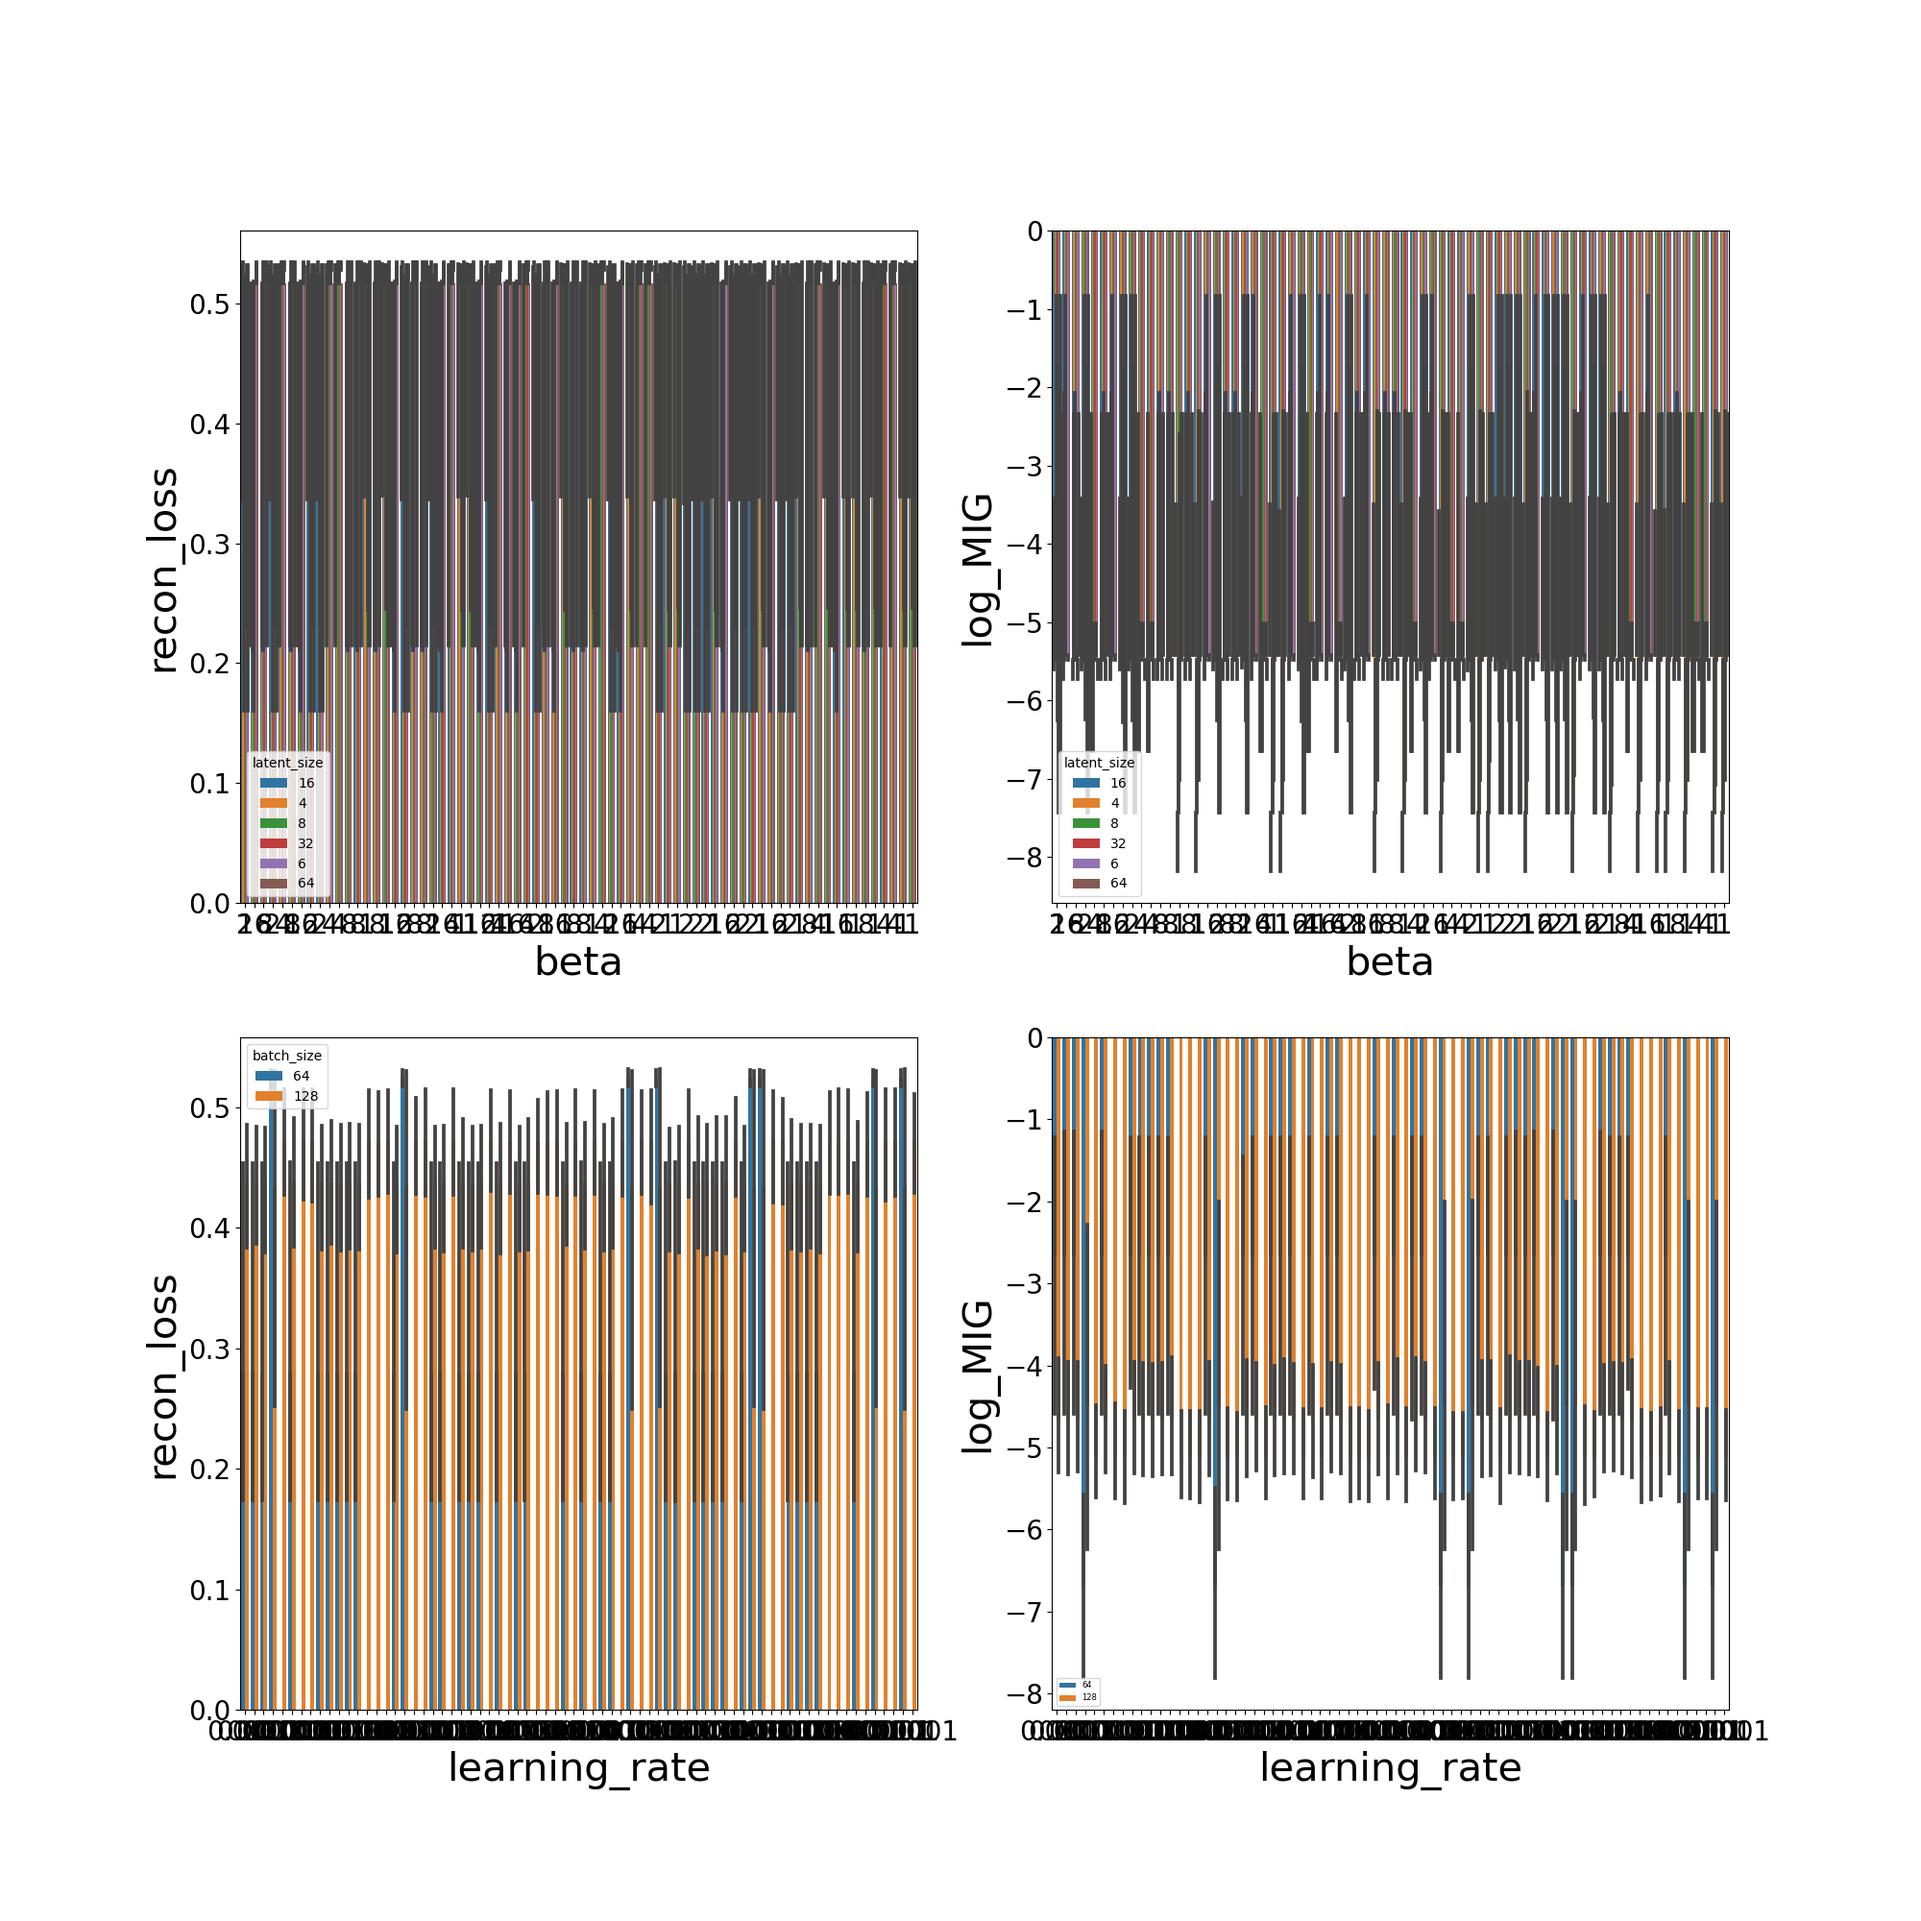
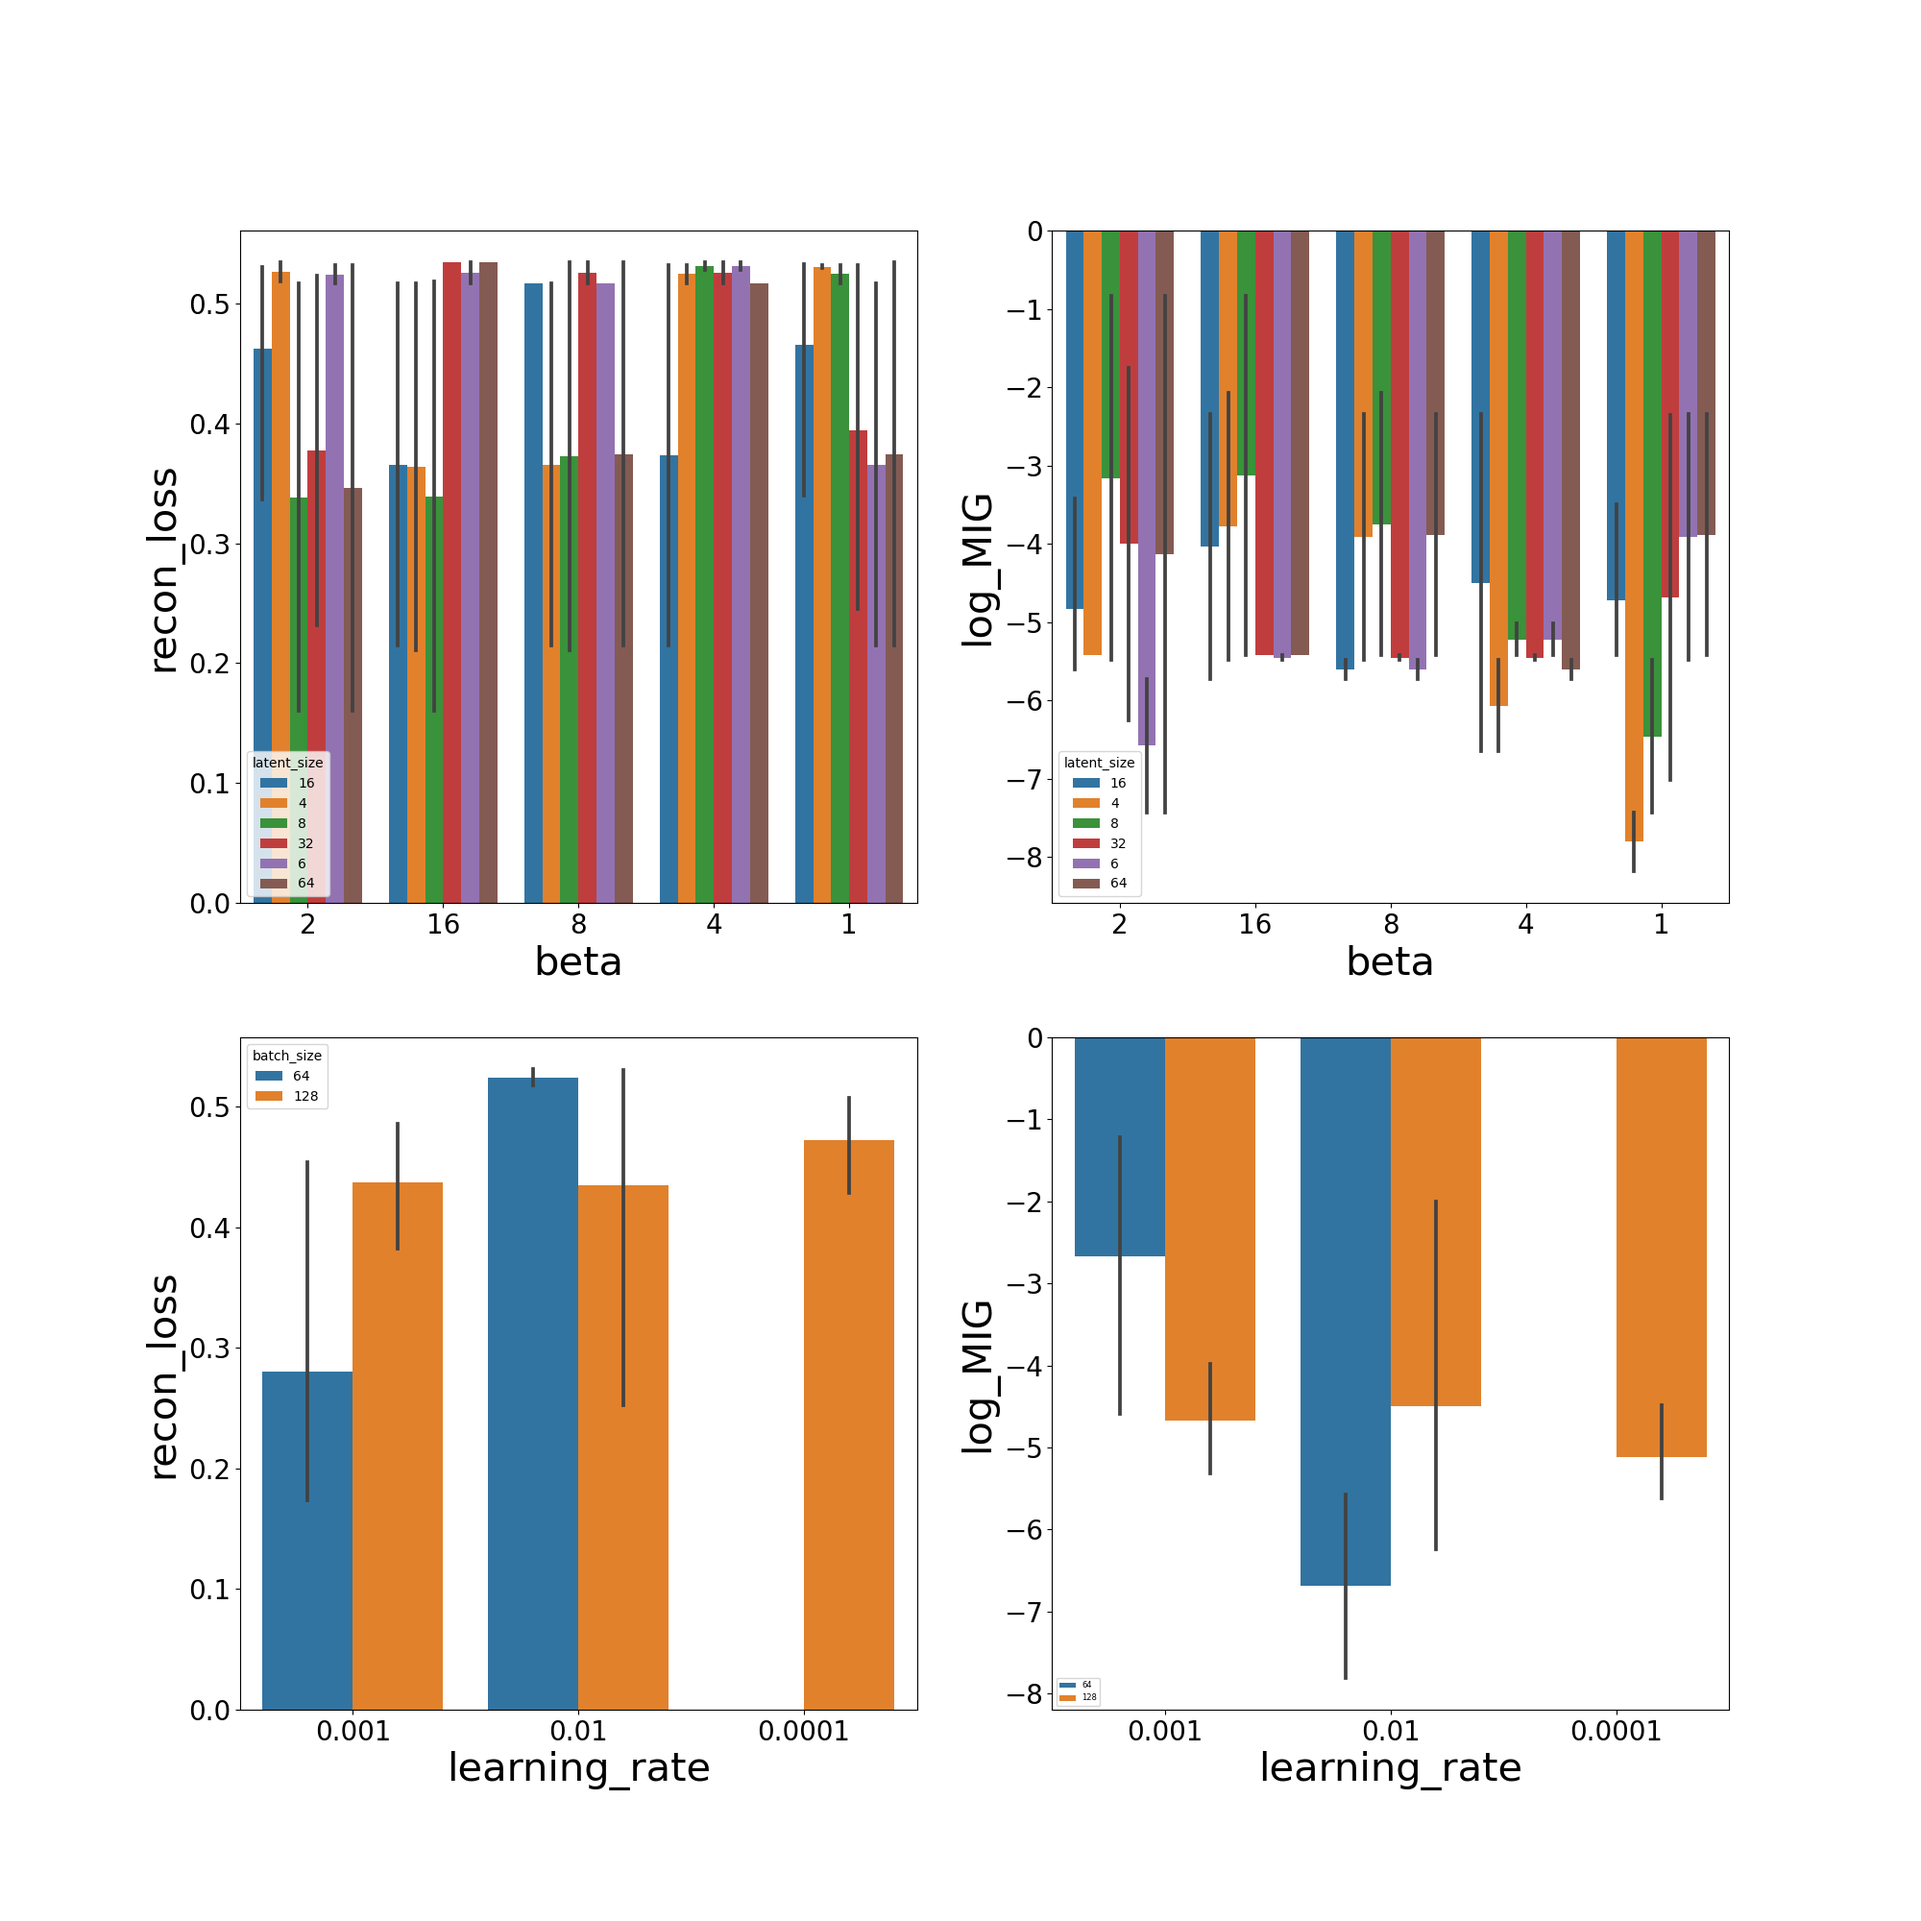
update grid plots

diff --git a/analysis/plot_grid_search.py b/analysis/plot_grid_search.py
@@ -56,10 +56,10 @@ print(f'Best model with minimal train loss is: \n {df.iloc[IX_min]}')
 
 # PLOT
 fig, axs = plt.subplots(2, 2, figsize=(20, 20))
-sns.barplot(data=df, x='beta', y='recon_loss', hue='latent_size', ax=axs[0, 0], order=df['beta'])
-sns.barplot(data=df, x='beta', y='log_MIG', hue='latent_size', ax=axs[0, 1], order=df['beta'])
-sns.barplot(data=df, x='learning_rate', y='recon_loss', hue='batch_size', ax=axs[1, 0], order=df['learning_rate'])
-sns.barplot(data=df, x='learning_rate', y='log_MIG', hue='batch_size', ax=axs[1, 1], order=df['learning_rate'])
+sns.barplot(data=df, x='beta', y='recon_loss', hue='latent_size', ax=axs[0, 0])#, order=df['beta'])
+sns.barplot(data=df, x='beta', y='log_MIG', hue='latent_size', ax=axs[0, 1])#, order=df['beta'])
+sns.barplot(data=df, x='learning_rate', y='recon_loss', hue='batch_size', ax=axs[1, 0])#, order=df['learning_rate'])
+sns.barplot(data=df, x='learning_rate', y='log_MIG', hue='batch_size', ax=axs[1, 1])#, order=df['learning_rate'])
 for ax in axs.flatten():
     ax.xaxis.label.set_size(30)
     ax.yaxis.label.set_size(30)
